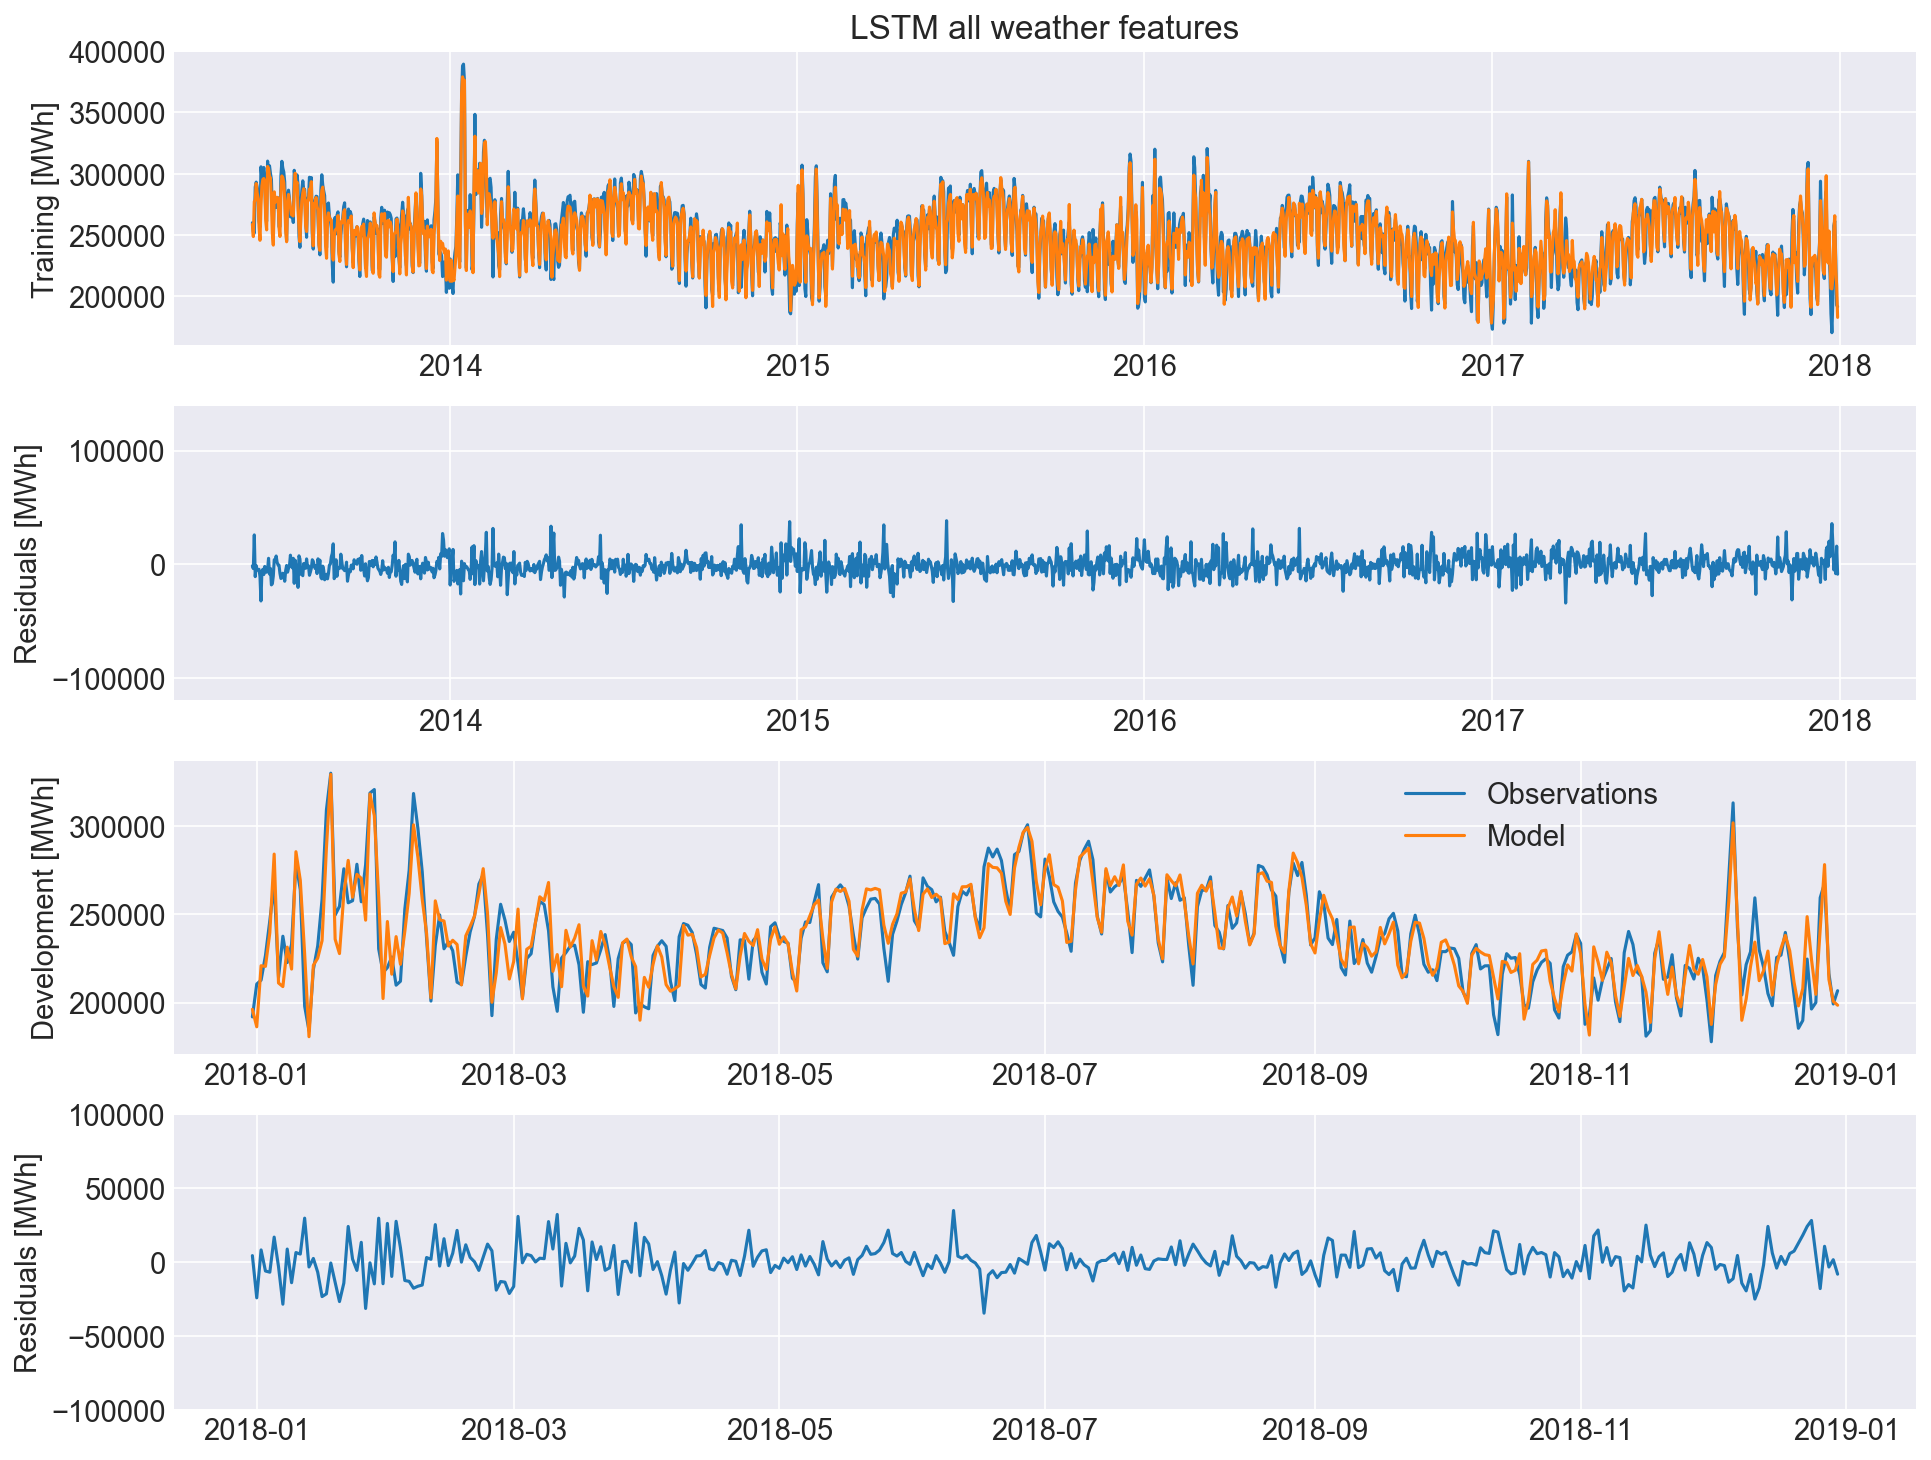
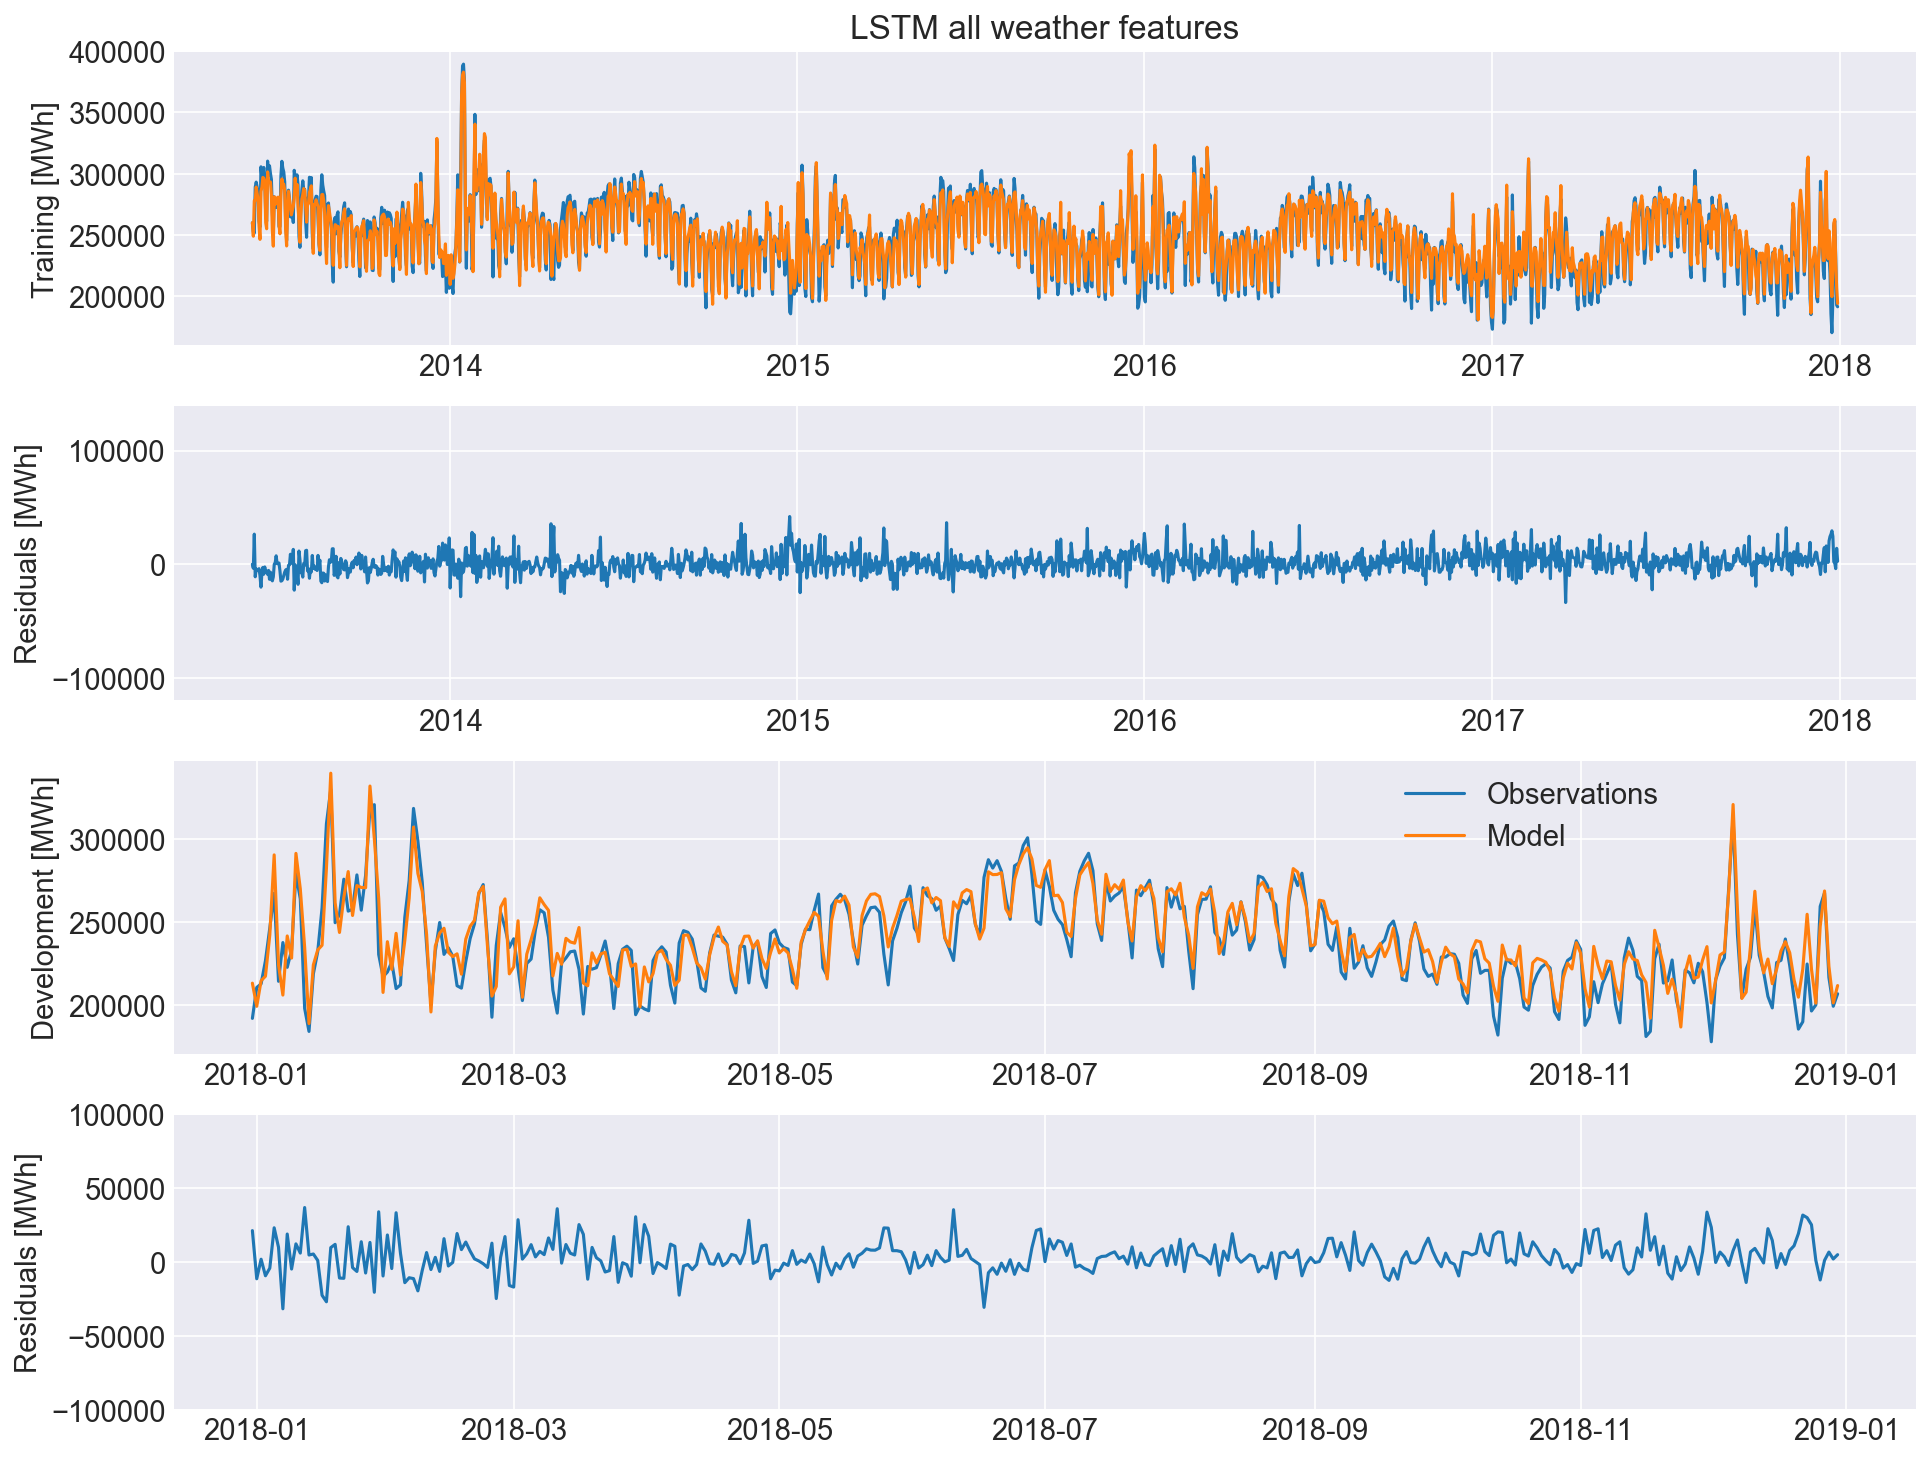
Minor changes to blog B before posting

diff --git a/post/energy-consumption-pandemic-part-b/index.html b/post/energy-consumption-pandemic-part-b/index.html
@@ -878,17 +878,17 @@ complexity grows.</p>
 <figure >
 
 
-  <a data-fancybox="" href="/post/energy-consumption-pandemic-part-b/model_track_hu3a8eb10c2cf40985c1926c233b651109_120457_2000x2000_fit_lanczos_2.png" >
+  <a data-fancybox="" href="/post/energy-consumption-pandemic-part-b/model_track_hu1ddcf30f15b30bea041f1c8e13e217d9_123517_2000x2000_fit_lanczos_2.png" >
 
 
-  <img data-src="/post/energy-consumption-pandemic-part-b/model_track_hu3a8eb10c2cf40985c1926c233b651109_120457_2000x2000_fit_lanczos_2.png" class="lazyload" alt="" width="1833" height="742">
+  <img data-src="/post/energy-consumption-pandemic-part-b/model_track_hu1ddcf30f15b30bea041f1c8e13e217d9_123517_2000x2000_fit_lanczos_2.png" class="lazyload" alt="" width="1833" height="742">
 </a>
 
 
 
 </figure>
 
-<p><em>Model performance is greatest when the mean absolute percentage error reaches zero</em></p>
+<p><em>Model performance is greatest when the mean absolute percentage error reaches zero.</em></p>
 <p>Key takeaway messages from tracking model development include:</p>
 <ol>
 <li>Both the MLP and LSTM <strong>outperform</strong> the benchmark model.</li>
@@ -948,16 +948,16 @@ an appropriate model.</p>
 <p>Key takeaway messages from reviewing the decomposed electricity demand for Victoria
 include:</p>
 <ol>
-<li>From 2014 to 2018 there is a slight <strong>downward trend</strong> in electricity demand,
+<li>From 2014 to 2019 there is a slight <strong>downward trend</strong> in electricity demand,
 this may be a result of <strong>electricity efficiency</strong> measures.</li>
-<li>There is a clear yearly seasonal component, this is likely to be a result of
-seasonal fluctuations in <strong>temperature</strong> and the subsequent heating and cooling demand.</li>
+<li>There is a clear yearly seasonal component that is likely to be a result of
+seasonal fluctuations in <strong>temperature</strong> and subsequent heating and cooling demand.</li>
 <li>The residuals show that errors tend to <strong>peak</strong> at the beginning of the year.</li>
 </ol>
 <h2 id="benchmark-model"><strong>Benchmark Model</strong></h2>
 <p>Upon reviewing 
 <a href="https://journals.plos.org/plosone/article?id=10.1371/journal.pone.0194889" target="_blank" rel="noopener">Statistical and Machine Learning forecasting methods</a>
-we can see that exponential smoothing models commonly outperformed other
+we can see that exponential smoothing models commonly outperform other
 statistical and machine learning models. Well suited to model seasonality and
 trend we use the Holt - Winters triple exponential smoother as our benchmark.</p>
 
@@ -1000,8 +1000,8 @@ trend we use the Holt - Winters triple exponential smoother as our benchmark.</p
 <ol>
 <li>The benchmark model captures the <strong>annual seasonality</strong>.</li>
 <li>Residuals in training still show errors <strong>peaking</strong> at the start of the year.</li>
-<li>The residuals in development show a <strong>weekly pattern</strong> which is potentially
-a result of lower electricity demand on the weekend.</li>
+<li>The residuals in development show a <strong>weekly pattern</strong> which is most due
+to lower electricity demand on weekends.</li>
 </ol>
 <h2 id="long-short-term-memory-recurrent-neural-network"><strong>Long Short-Term Memory Recurrent Neural Network</strong></h2>
 <p>The LSTM RNN is a popular choice for time series forecasting.
@@ -1034,10 +1034,10 @@ It is assumed that we will have a good estimate of the next day&rsquo;s weather.
 <figure >
 
 
-  <a data-fancybox="" href="/post/energy-consumption-pandemic-part-b/LSTM_weather_hub9fdcee5a170e9fef984b0e5133c2470_495830_2000x2000_fit_lanczos_2.png" >
+  <a data-fancybox="" href="/post/energy-consumption-pandemic-part-b/LSTM_weather_huf44491e25a06a8ebffd69839f7bb1b4a_489688_2000x2000_fit_lanczos_2.png" >
 
 
-  <img data-src="/post/energy-consumption-pandemic-part-b/LSTM_weather_hub9fdcee5a170e9fef984b0e5133c2470_495830_2000x2000_fit_lanczos_2.png" class="lazyload" alt="" width="1931" height="1460">
+  <img data-src="/post/energy-consumption-pandemic-part-b/LSTM_weather_huf44491e25a06a8ebffd69839f7bb1b4a_489688_2000x2000_fit_lanczos_2.png" class="lazyload" alt="" width="1931" height="1460">
 </a>
 
 
@@ -1049,13 +1049,13 @@ It is assumed that we will have a good estimate of the next day&rsquo;s weather.
 <li>The <strong>LSTM</strong> significantly out-performs the benchmark model capturing peak demand much better.</li>
 <li>The residuals in training show that there is a <strong>pattern</strong> to the errors. These
 peaks are likely to be around holiday periods.</li>
-<li>The residuals in development still show a <strong>weekly pattern</strong>. This is likely to be
-a result of lower electricity demand on the weekend.</li>
+<li>The residuals in development still show a <strong>weekly pattern</strong>.</li>
 </ol>
 <h2 id="multilayer-perceptron-artificial-neural-network"><strong>Multilayer Perceptron Artificial Neural Network</strong></h2>
-<p>Instead of perceiving electricity demand as a time series model we can treat the
-model as a function of the past 7 days for weather, day of the week and year,
-and holiday period. The MLP ANN is well suited to this task.</p>
+<p>Instead of perceiving electricity demand as a time series model we can develop a
+model which forecasts electricity demand as a function of the past 7 days for 
+weather, day of the week and year, and holiday period. The MLP ANN is well
+suited to this task.</p>
 
 
 
@@ -1082,10 +1082,10 @@ and holiday period. The MLP ANN is well suited to this task.</p>
 <figure >
 
 
-  <a data-fancybox="" href="/post/energy-consumption-pandemic-part-b/MLP_all_hu50233b4b27128dab9f83507a938f176a_475557_2000x2000_fit_lanczos_2.png" >
+  <a data-fancybox="" href="/post/energy-consumption-pandemic-part-b/MLP_all_hu6a4733eca27246baf69e795ff3a7679b_475811_2000x2000_fit_lanczos_2.png" >
 
 
-  <img data-src="/post/energy-consumption-pandemic-part-b/MLP_all_hu50233b4b27128dab9f83507a938f176a_475557_2000x2000_fit_lanczos_2.png" class="lazyload" alt="" width="1931" height="1460">
+  <img data-src="/post/energy-consumption-pandemic-part-b/MLP_all_hu6a4733eca27246baf69e795ff3a7679b_475811_2000x2000_fit_lanczos_2.png" class="lazyload" alt="" width="1931" height="1460">
 </a>
 
 
@@ -1094,7 +1094,7 @@ and holiday period. The MLP ANN is well suited to this task.</p>
 
 <p>The key takeaway messages from reviewing MLP model performance are:</p>
 <ol>
-<li>Including days of the year which <strong>account for behavioral</strong> changes commonly
+<li>Including weekends and holidays which <strong>account for behavioral</strong> changes commonly
 associated with changes to electricity demand significantly improves performance.</li>
 <li>The model tends to both <strong>under and over-predict peaks and troughs</strong>. An 
 alternate loss function may help this.</li>
@@ -1105,7 +1105,7 @@ expect electricity demand during the <strong>pandemic</strong> to be more diffic
 <p>In this blog post I provided an overview of one way to develop a benchmark model
 and use it to track improvements made by other models. Following this procedure
 allows <strong>end users</strong> to follow to model development process and identify
-shortcomings and priorities. It is shown that the MLP ANN which accounts for the
+shortcomings and priorities. It is shown that the MLP which accounts for the
 day of the week and holidays significantly outperforms the LSTM and benchmark 
 model.</p>
 <p>You may have noticed that I did not test the model using Victorian electricity
